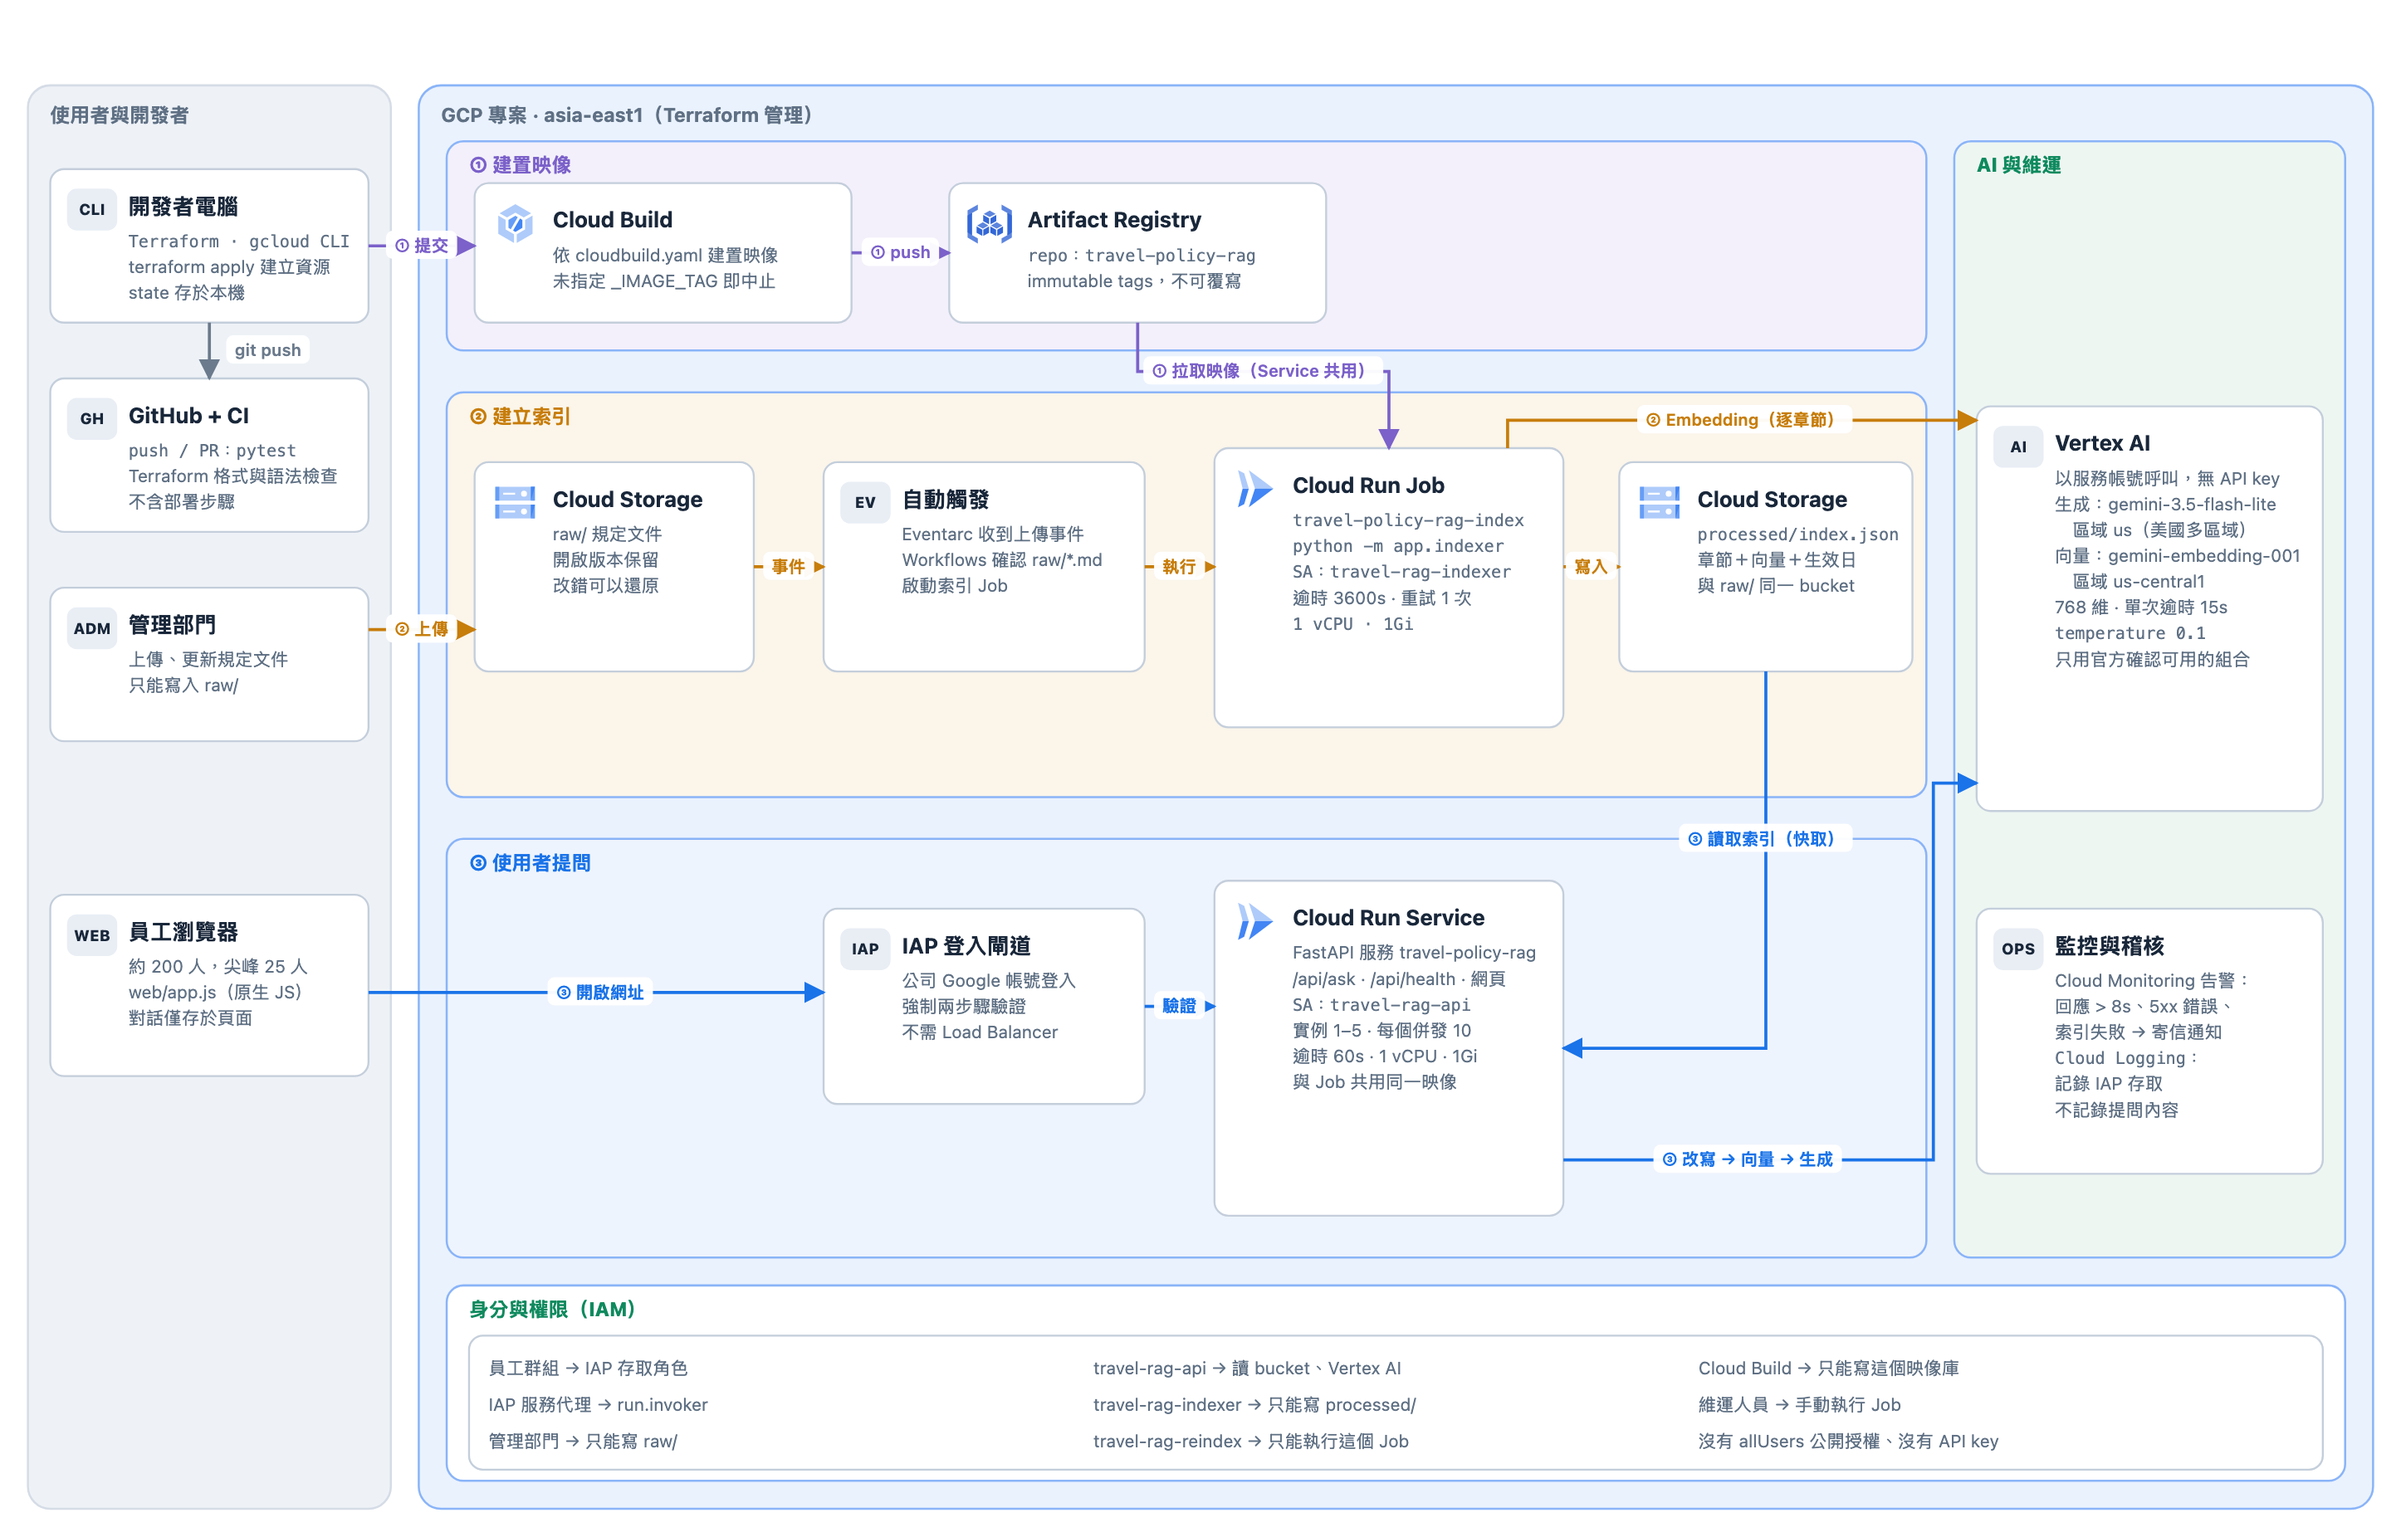
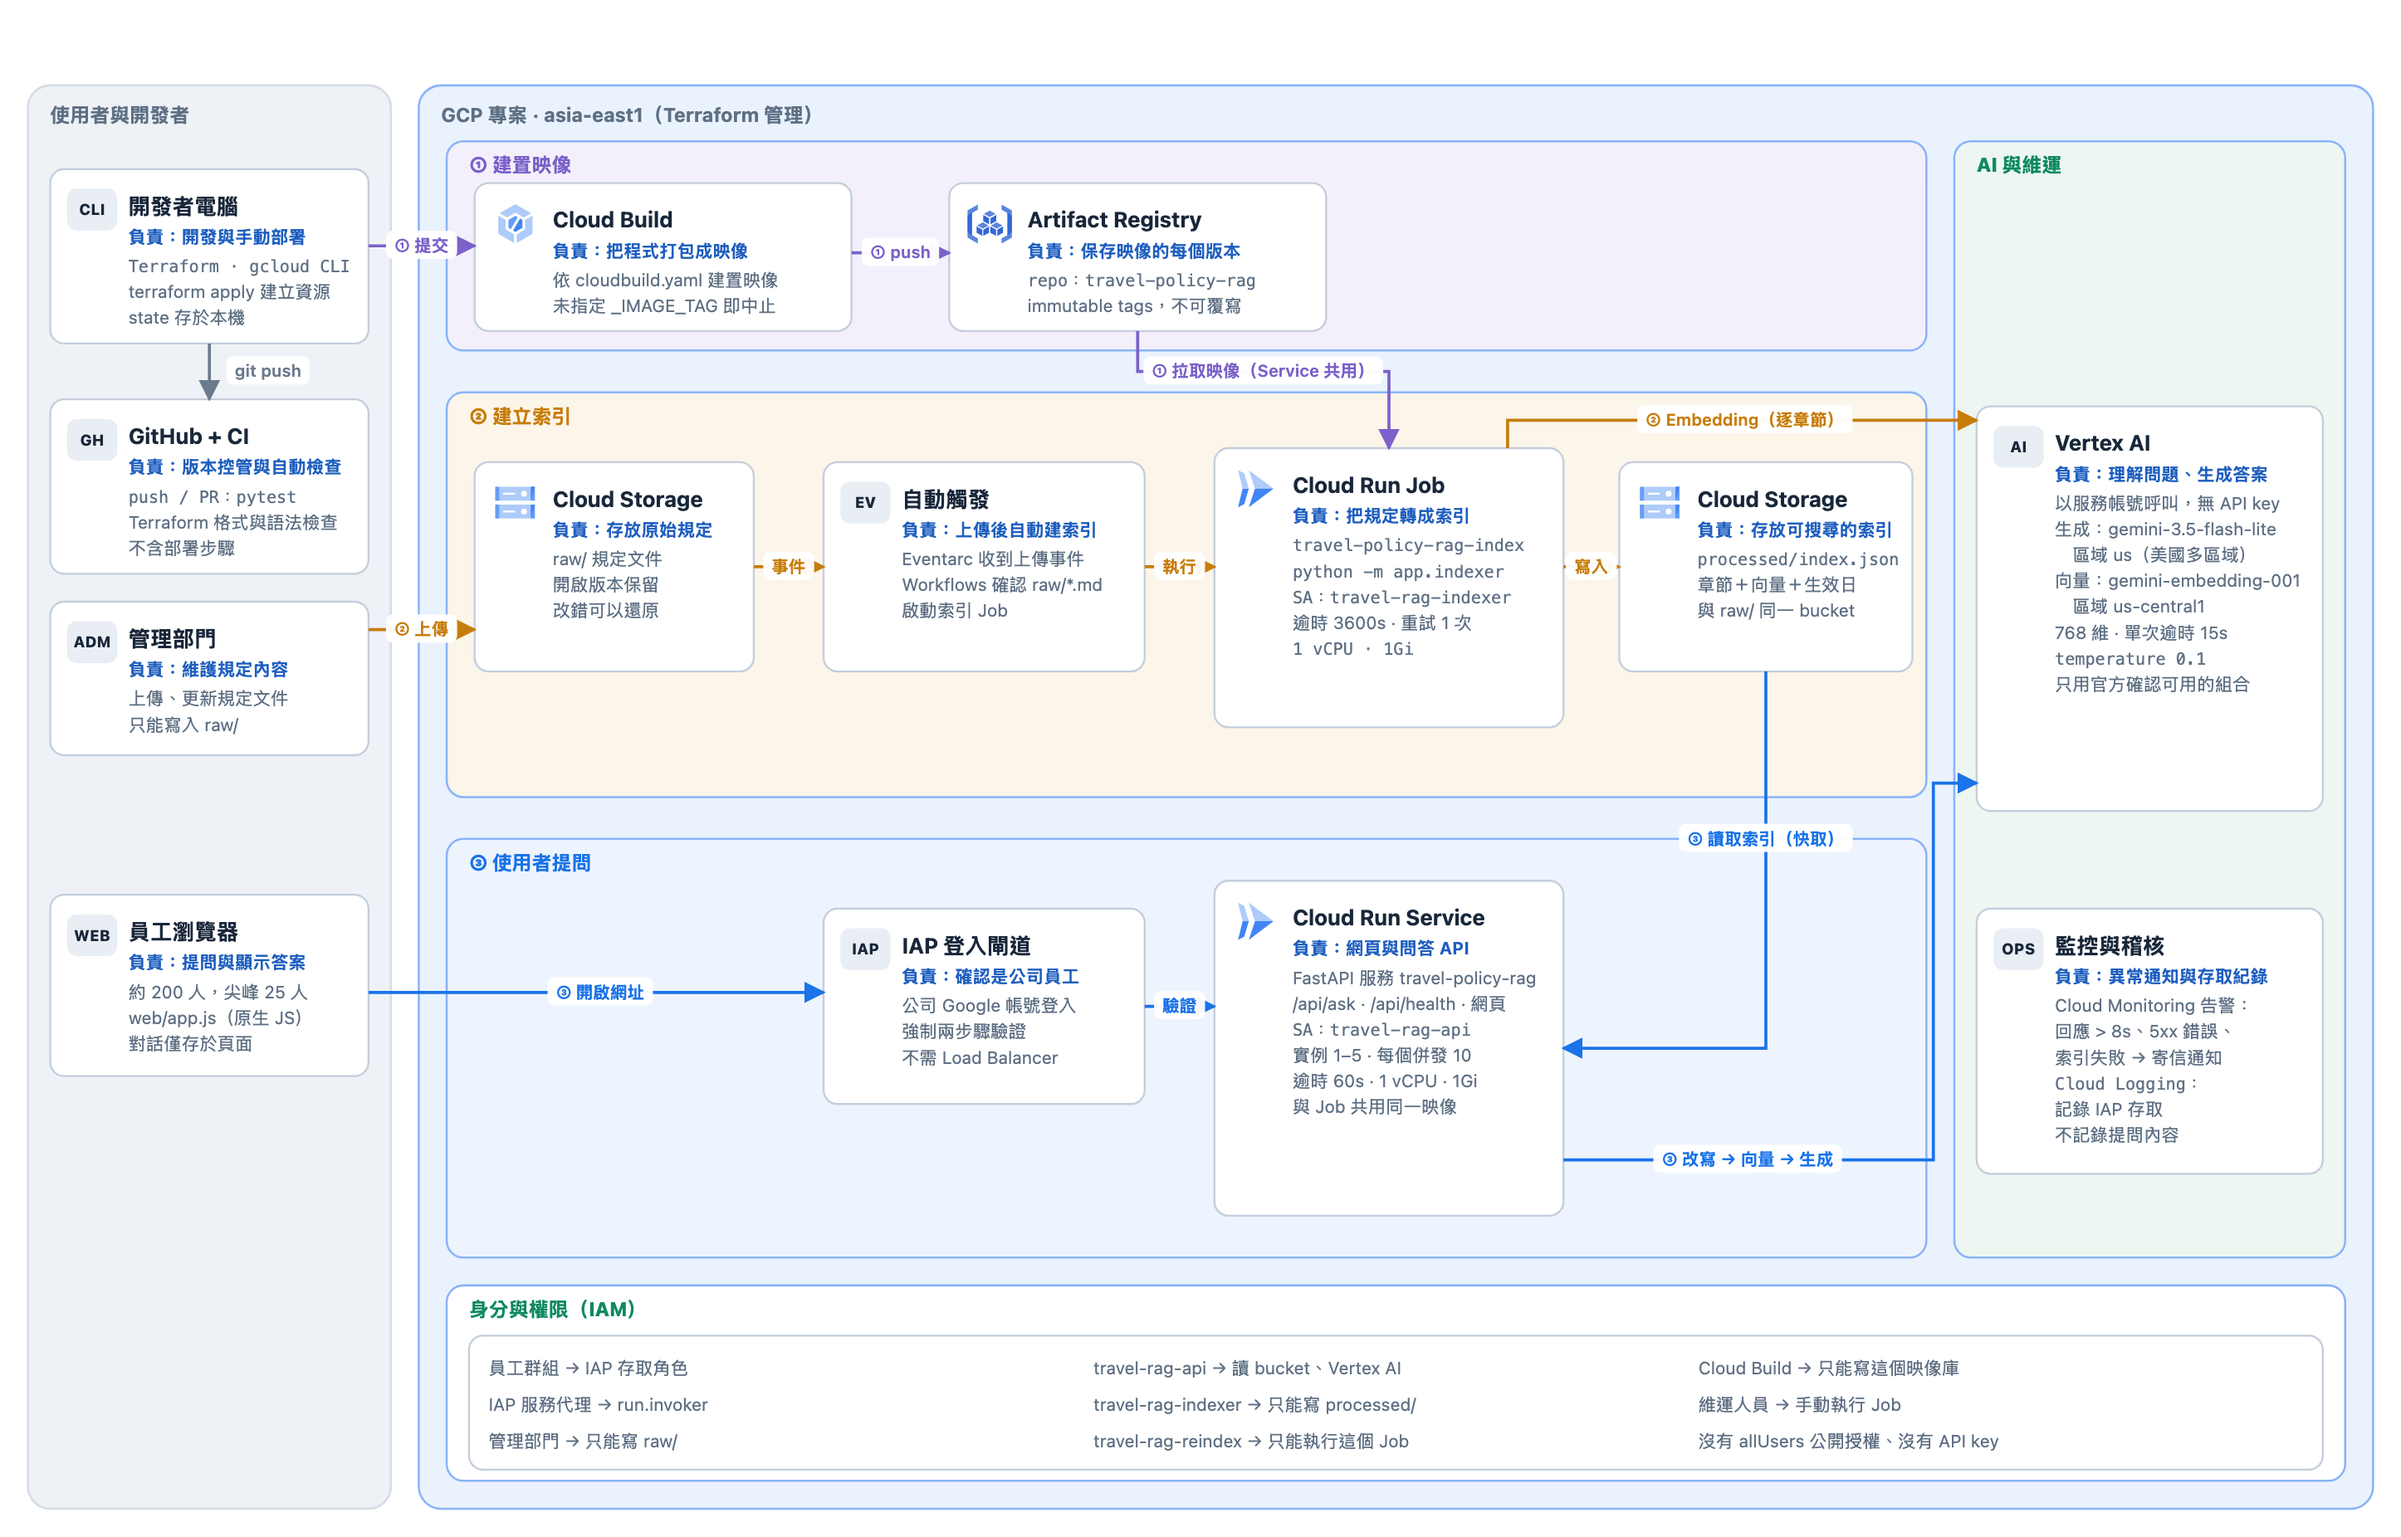
Label each diagram component with its responsibility
Every box in the architecture diagram now has a short line stating
what it does in the system. Also drop the company name from the
fictional policy disclaimers and the project plan.

diff --git a/docs/diagrams/cloud-architecture.html b/docs/diagrams/cloud-architecture.html
@@ -12,7 +12,7 @@
   --node:#ffffff; --node-line:#c4cedb;
   --build:#7b61c9; --index:#c77d0a; --ask:#1a73e8; --sec:#0f8a5f; --plain:#6b7a8c;
   --warn-bg:#fff3e0; --warn-ink:#9a4d00; --tip-bg:#e8f5ee; --tip-ink:#11663f;
-  --badge:#e9eef5;
+  --badge:#e9eef5; --role:#1f5fbf;
 }
 @media (prefers-color-scheme: dark){
   :root:not([data-theme="light"]){
@@ -21,7 +21,7 @@
     --lane-build:#1d1a2e; --lane-index:#2a2216; --lane-ask:#14223a; --lane-ops:#142a22;
     --node:#1c2532; --node-line:#36445a;
     --build:#a593f0; --index:#f0a83a; --ask:#6aa6ff; --sec:#3fc28c; --plain:#8796a8;
-    --warn-bg:#3a2a12; --warn-ink:#ffc27a; --tip-bg:#12301f; --tip-ink:#7fdcaa; --badge:#263142;
+    --warn-bg:#3a2a12; --warn-ink:#ffc27a; --tip-bg:#12301f; --tip-ink:#7fdcaa; --badge:#263142; --role:#8ab4ff;
   }
 }
 :root[data-theme="dark"]{
@@ -30,7 +30,7 @@
   --lane-build:#1d1a2e; --lane-index:#2a2216; --lane-ask:#14223a; --lane-ops:#142a22;
   --node:#1c2532; --node-line:#36445a;
   --build:#a593f0; --index:#f0a83a; --ask:#6aa6ff; --sec:#3fc28c; --plain:#8796a8;
-  --warn-bg:#3a2a12; --warn-ink:#ffc27a; --tip-bg:#12301f; --tip-ink:#7fdcaa; --badge:#263142;
+  --warn-bg:#3a2a12; --warn-ink:#ffc27a; --tip-bg:#12301f; --tip-ink:#7fdcaa; --badge:#263142; --role:#8ab4ff;
 }
 *{box-sizing:border-box}
 body{margin:0;background:var(--bg);color:var(--ink);
@@ -58,6 +58,7 @@ svg{display:block;width:100%;min-width:1100px;height:auto}
 .lane-label{font-size:14px;font-weight:800}
 .node rect.box{fill:var(--node);stroke:var(--node-line);stroke-width:1.4}
 .node .t{font-size:15.5px;font-weight:700;fill:var(--ink)}
+.node .r{font-size:12.5px;font-weight:700;fill:var(--role)}
 .node .l{font-size:12.5px;fill:var(--muted)}
 .node .l.code{font-family:ui-monospace,SFMono-Regular,Menlo,monospace;font-size:12px}
 .badge rect{fill:var(--badge)}
@@ -132,6 +133,7 @@ footer{margin-top:22px;font-size:13px;color:var(--muted)}
     <button class="flow-btn" data-flow="sec" aria-pressed="false" type="button"><i style="background:var(--sec)"></i>④ 身分與維運</button>
   </div>
   <div class="legend">
+    <span><b>藍色「負責」</b>：這個元件在系統裡做什麼</span>
     <span><b>①②③</b>：連線屬於哪一條流程，三條流程由上而下排列</span>
     <span><b>底部</b>：所有身分與權限（IAM）</span>
   </div>
@@ -281,33 +283,33 @@ footer{margin-top:22px;font-size:13px;color:var(--muted)}
   ];
 
   const nodes = [
-    { id: "dev", x: 36, y: 120, w: 228, h: 110, badge: "CLI", title: "開發者電腦", flows: "build",
+    { id: "dev", x: 36, y: 120, w: 228, h: 125, badge: "CLI", title: "開發者電腦", role: "負責：開發與手動部署", flows: "build",
       lines: ["Terraform · gcloud CLI", "terraform apply 建立資源", "state 存於本機"] },
-    { id: "gh", x: 36, y: 270, w: 228, h: 110, badge: "GH", title: "GitHub + CI", flows: "build",
+    { id: "gh", x: 36, y: 285, w: 228, h: 125, badge: "GH", title: "GitHub + CI", role: "負責：版本控管與自動檢查", flows: "build",
       lines: ["push / PR：pytest", "Terraform 格式與語法檢查", "不含部署步驟"] },
-    { id: "admin", x: 36, y: 420, w: 228, h: 110, badge: "ADM", title: "管理部門", flows: "index sec",
+    { id: "admin", x: 36, y: 430, w: 228, h: 110, badge: "ADM", title: "管理部門", role: "負責：維護規定內容", flows: "index sec",
       lines: ["上傳、更新規定文件", "只能寫入 raw/"] },
-    { id: "browser", x: 36, y: 640, w: 228, h: 130, badge: "WEB", title: "員工瀏覽器", flows: "ask",
+    { id: "browser", x: 36, y: 640, w: 228, h: 130, badge: "WEB", title: "員工瀏覽器", role: "負責：提問與顯示答案", flows: "ask",
       lines: ["約 200 人，尖峰 25 人", "web/app.js（原生 JS）", "對話僅存於頁面"] },
-    { id: "cb", x: 340, y: 130, w: 270, h: 100, icon: "cloud_build", title: "Cloud Build", flows: "build",
+    { id: "cb", x: 340, y: 130, w: 270, h: 106, icon: "cloud_build", title: "Cloud Build", role: "負責：把程式打包成映像", flows: "build",
       lines: ["依 cloudbuild.yaml 建置映像", "未指定 _IMAGE_TAG 即中止"] },
-    { id: "ar", x: 680, y: 130, w: 270, h: 100, icon: "artifact_registry", title: "Artifact Registry", flows: "build",
+    { id: "ar", x: 680, y: 130, w: 270, h: 106, icon: "artifact_registry", title: "Artifact Registry", role: "負責：保存映像的每個版本", flows: "build",
       lines: ["repo：travel-policy-rag", "immutable tags，不可覆寫"] },
-    { id: "raw", x: 340, y: 330, w: 200, h: 150, icon: "cloud_storage", title: "Cloud Storage", flows: "index sec",
+    { id: "raw", x: 340, y: 330, w: 200, h: 150, icon: "cloud_storage", title: "Cloud Storage", role: "負責：存放原始規定", flows: "index sec",
       lines: ["raw/ 規定文件", "開啟版本保留", "改錯可以還原"] },
-    { id: "evwf", x: 590, y: 330, w: 230, h: 150, badge: "EV", title: "自動觸發", flows: "index",
+    { id: "evwf", x: 590, y: 330, w: 230, h: 150, badge: "EV", title: "自動觸發", role: "負責：上傳後自動建索引", flows: "index",
       lines: ["Eventarc 收到上傳事件", "Workflows 確認 raw/*.md", "啟動索引 Job"] },
-    { id: "job", x: 870, y: 320, w: 250, h: 200, icon: "cloud_run", title: "Cloud Run Job", flows: "build index sec",
+    { id: "job", x: 870, y: 320, w: 250, h: 200, icon: "cloud_run", title: "Cloud Run Job", role: "負責：把規定轉成索引", flows: "build index sec",
       lines: ["travel-policy-rag-index", "python -m app.indexer", "SA：travel-rag-indexer", "逾時 3600s · 重試 1 次", "1 vCPU · 1Gi"] },
-    { id: "proc", x: 1160, y: 330, w: 210, h: 150, icon: "cloud_storage", title: "Cloud Storage", flows: "index ask",
+    { id: "proc", x: 1160, y: 330, w: 210, h: 150, icon: "cloud_storage", title: "Cloud Storage", role: "負責：存放可搜尋的索引", flows: "index ask",
       lines: ["processed/index.json", "章節＋向量＋生效日", "與 raw/ 同一 bucket"] },
-    { id: "iap", x: 590, y: 650, w: 230, h: 140, badge: "IAP", title: "IAP 登入閘道", flows: "ask sec",
+    { id: "iap", x: 590, y: 650, w: 230, h: 140, badge: "IAP", title: "IAP 登入閘道", role: "負責：確認是公司員工", flows: "ask sec",
       lines: ["公司 Google 帳號登入", "強制兩步驟驗證", "不需 Load Balancer"] },
-    { id: "svc", x: 870, y: 630, w: 250, h: 240, icon: "cloud_run", title: "Cloud Run Service", flows: "build ask sec",
+    { id: "svc", x: 870, y: 630, w: 250, h: 240, icon: "cloud_run", title: "Cloud Run Service", role: "負責：網頁與問答 API", flows: "build ask sec",
       lines: ["FastAPI 服務 travel-policy-rag", "/api/ask · /api/health · 網頁", "SA：travel-rag-api", "實例 1–5 · 每個併發 10", "逾時 60s · 1 vCPU · 1Gi", "與 Job 共用同一映像"] },
-    { id: "vertex", x: 1416, y: 290, w: 248, h: 290, badge: "AI", title: "Vertex AI", flows: "index ask sec",
+    { id: "vertex", x: 1416, y: 290, w: 248, h: 290, badge: "AI", title: "Vertex AI", role: "負責：理解問題、生成答案", flows: "index ask sec",
       lines: ["以服務帳號呼叫，無 API key", "生成：gemini-3.5-flash-lite", "　區域 us（美國多區域）", "向量：gemini-embedding-001", "　區域 us-central1", "768 維 · 單次逾時 15s", "temperature 0.1", "只用官方確認可用的組合"] },
-    { id: "ops", x: 1416, y: 650, w: 248, h: 190, badge: "OPS", title: "監控與稽核", flows: "sec",
+    { id: "ops", x: 1416, y: 650, w: 248, h: 190, badge: "OPS", title: "監控與稽核", role: "負責：異常通知與存取紀錄", flows: "sec",
       lines: ["Cloud Monitoring 告警：", "回應 > 8s、5xx 錯誤、", "索引失敗 → 寄信通知", "Cloud Logging：", "記錄 IAP 存取", "不記錄提問內容"] },
     { id: "iam", x: 336, y: 956, w: 1328, h: 96, flows: "sec", columns: [
       ["員工群組 → IAP 存取角色", "IAP 服務代理 → run.invoker", "管理部門 → 只能寫 raw/"],
@@ -319,10 +321,10 @@ footer{margin-top:22px;font-size:13px;color:var(--muted)}
   // Edge index is used by the tour: 0 git push, 1 dev→cb, 2 cb→ar, 3 ar→job, 4 admin→raw,
   // 5 raw→evwf, 6 evwf→job, 7 job→proc, 8 job→vertex, 9 proc→svc, 10 browser→iap, 11 iap→svc, 12 svc→vertex.
   const edges = [
-    { d: "M150,230 V270", label: "git push", lx: 192, ly: 250, flow: "build", color: C.plain },
+    { d: "M150,245 V285", label: "git push", lx: 192, ly: 265, flow: "build", color: C.plain },
     { d: "M264,175 H340", label: "① 提交", lx: 302, ly: 175, flow: "build", color: C.build },
     { d: "M610,180 H680", label: "① push", lx: 645, ly: 180, flow: "build", color: C.build },
-    { d: "M815,230 V265 H995 V320", label: "① 拉取映像（Service 共用）", lx: 905, ly: 265, flow: "build", color: C.build },
+    { d: "M815,236 V265 H995 V320", label: "① 拉取映像（Service 共用）", lx: 905, ly: 265, flow: "build", color: C.build },
     { d: "M264,450 H340", label: "② 上傳", lx: 302, ly: 450, flow: "index", color: C.index },
     { d: "M540,405 H590", label: "事件", lx: 565, ly: 405, flow: "index", color: C.index },
     { d: "M820,405 H870", label: "執行", lx: 845, ly: 405, flow: "index", color: C.index },
@@ -384,7 +386,9 @@ footer{margin-top:22px;font-size:13px;color:var(--muted)}
       tx = n.x + 56;
     }
     text(g, tx, n.y + 32, n.title, "t");
-    n.lines.forEach((line, i) => text(g, tx, n.y + 56 + i * 18.5, line, isCode(line) ? "l code" : "l"));
+    if (n.role) text(g, tx, n.y + 53, n.role, "r");
+    const first = n.role ? 74 : 56;
+    n.lines.forEach((line, i) => text(g, tx, n.y + first + i * 18.5, line, isCode(line) ? "l code" : "l"));
   });
 
   const edgeLayer = el("g", {}, svg);
